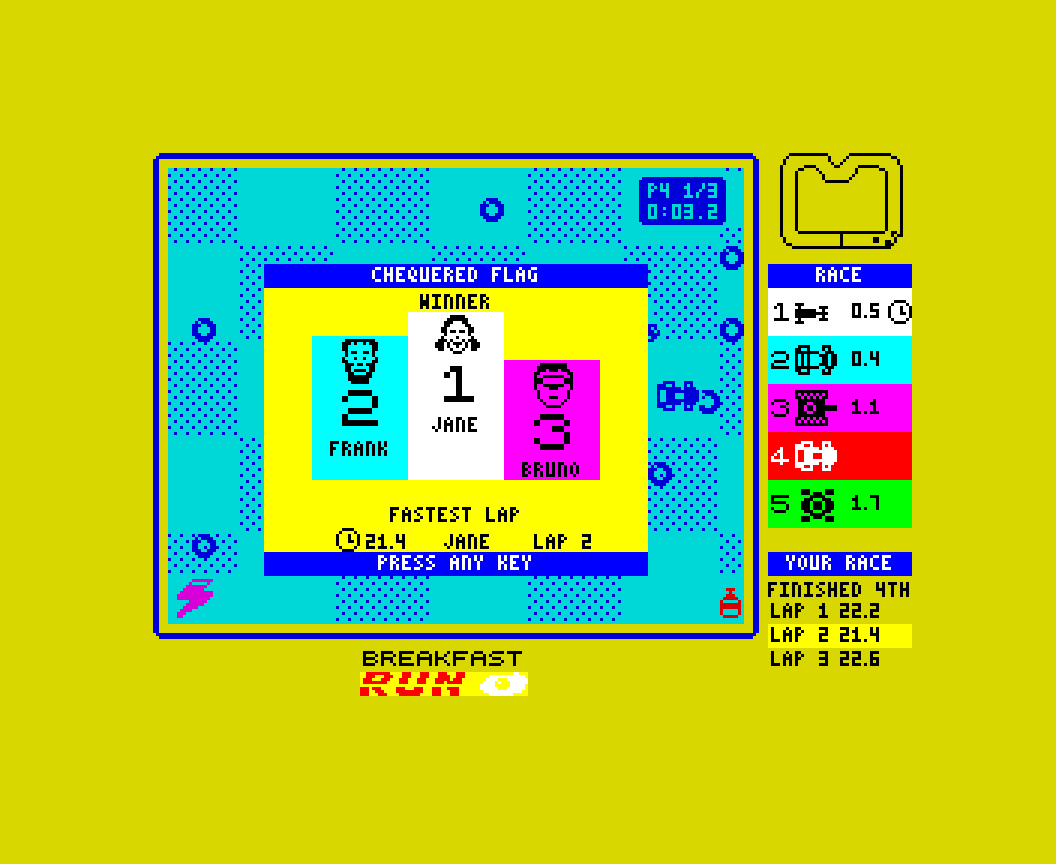
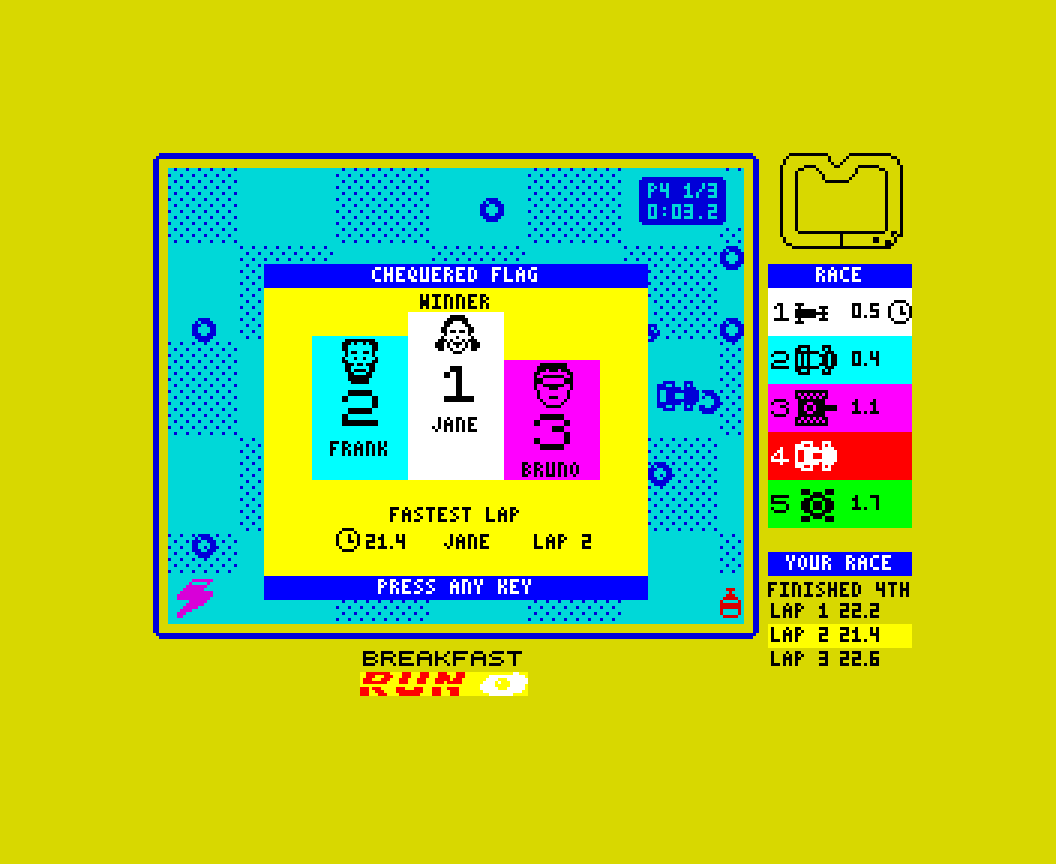
Podium: a yellow row between the fastest lap and PRESS ANY KEY
Claude-Session: https://claude.ai/code/session_01476U86GiAC8cKs57wAJvc3

Changed region(s): [[0.25, 0.625, 0.625, 0.7188]]

diff --git a/tests/finish_test.py b/tests/finish_test.py
@@ -35,16 +35,16 @@ with Racer(headless=True) as sp:
     sp.write(SYM['race_over'], bytes([1])); sp.run(duration=0.6, fast_forward=True)
     sb = screen_bits(sp).astype(bool)
     A = np.array([[attr(sp, r, c) for c in range(32)] for r in range(24)])
-    want = np.full((13, 16), 0x70); want[0] = 0x4F; want[12] = 0x4F
+    want = np.full((14, 16), 0x70); want[0] = 0x4F; want[13] = 0x4F
     want[2:9, 6:10] = COLOUR[4]; want[3:9, 2:6] = COLOUR[1]; want[4:9, 10:14] = COLOUR[0]
-    ok((A[5:18, 5:21] == want).all(), 'the podium: a yellow card (rows 5-17, columns 5-20), blue head and foot, three steps in the drivers\' own colours - white, cyan, red - with yellow all round them')
-    ok((A[5:17, 1:5] == 0x29).all() and (A[5:17, 21:25] == 0x29).all() and (A[18:20, 1:25] != 0x70).all() and (A[1:5, 5:21] != 0x70).all(), 'the cloth round the card keeps its own colours')
+    ok((A[5:19, 5:21] == want).all(), 'the podium: a yellow card (rows 5-18, columns 5-20), blue head and foot, three steps in the drivers\' own colours - white, cyan, red - with yellow all round them')
+    ok((A[5:17, 1:5] == 0x29).all() and (A[5:17, 21:25] == 0x29).all() and (A[19:20, 1:25] != 0x70).all() and (A[1:5, 5:21] != 0x70).all(), 'the cloth round the card keeps its own colours')
     ok((sb[56:72, 96:112] == HAPPY['WHITE']).all(), 'the winner\'s face is the HAPPY one, the same size as the others, on the top step')
     ok((sb[64:80, 64:80] == EVERY['CYAN']).all() and (sb[72:88, 128:144] == EVERY['GREEN' if False else 'YOU']).all(), 'second and third have their everyday faces')
     ok(sb[72:88, 96:112].any() and sb[80:96, 64:80].any() and sb[88:104, 128:144].any() and sb[91:96, 96:112].any() and sb[99:104, 60:84].any() and sb[106:111, 128:144].any(),
        'each step has its place, large, and its driver\'s name in the small letters')
-    ok(sb[41:46, 76:132].any() and sb[50:55, 92:116].any() and sb[121:126, 82:126].any() and sb[137:142, 78:130].any() and not sb[112:120, 40:168].any(),
-       'CHEQUERED FLAG, WINNER, a clear row under the podium, FASTEST LAP, PRESS ANY KEY')
+    ok(sb[41:46, 76:132].any() and sb[50:55, 92:116].any() and sb[121:126, 82:126].any() and sb[145:150, 78:130].any() and not sb[112:120, 40:168].any() and not sb[136:144, 40:168].any(),
+       'CHEQUERED FLAG, WINNER, a clear row under the podium, FASTEST LAP, a clear row, PRESS ANY KEY')
     clock8 = np.array([[sp.read8(SYM['clock8'] + r) >> (7 - c) & 1 for c in range(8)] for r in range(8)], dtype=bool)
     ok((sb[128:136, 64:72] == clock8).all() and sb[130:135, 74:92].any() and sb[130:135, 98:120].any() and sb[130:135, 130:150].any() and not sb[128:136, 152:168].any(),
        'under FASTEST LAP: the clock icon, the time, whose it was, and LAP with its number')

diff --git a/tests/drive_test.py b/tests/drive_test.py
@@ -378,7 +378,7 @@ with Racer(headless=True) as sp:
     put(sp, 0, 250, SY - 8, 16)
     hold(sp, ['Q'], 1.5)
     sp.run(duration=0.3, fast_forward=True)
-    card = [sp.read8(0x5800 + r * 32 + c) for r, c in ((5, 5), (6, 5), (17, 20), (16, 20))]
+    card = [sp.read8(0x5800 + r * 32 + c) for r, c in ((5, 5), (6, 5), (18, 20), (17, 20))]
     print('after crossing the line on lap 3: the card\'s colours', ['%02X' % v for v in card], 'race_over', sp.read8(SYM['race_over']))
     check(sp.read8(SYM['race_over']) != 0, 'crossing the line on the last lap: the race is over')
     check(card == [0x4F, 0x70, 0x4F, 0x70], 'every car in: the podium\'s yellow card in the window, its head and foot blue (tests/finish_test.py has the rest)')

diff --git a/PROJECT-LOG.md b/PROJECT-LOG.md
@@ -1942,3 +1942,9 @@ Authoritative log for this workstream (house rule 5.2). Newest at the bottom. Ti
   tools/make_titlecar_mock.py -> docs/design/titlecar_options.png, the game's own five cars over
   the checks: NOW (red line, white mask), A black see-through, B black on a white cell-patch,
   C solid black shape, D black shape with cloth-coloured lines. Nothing built.
+
+## 2026-11-15 10:11 SAST - the podium: a yellow row above PRESS ANY KEY
+
+- Grant: "have the press any key a row lower in the finish race view - so an extra yellow line
+  below the fast time details". The card is rows 5-18; its foot and PRESS ANY KEY on row 18.
+  finish, drive, title tests PASS. docs/design/podium_built.png.
